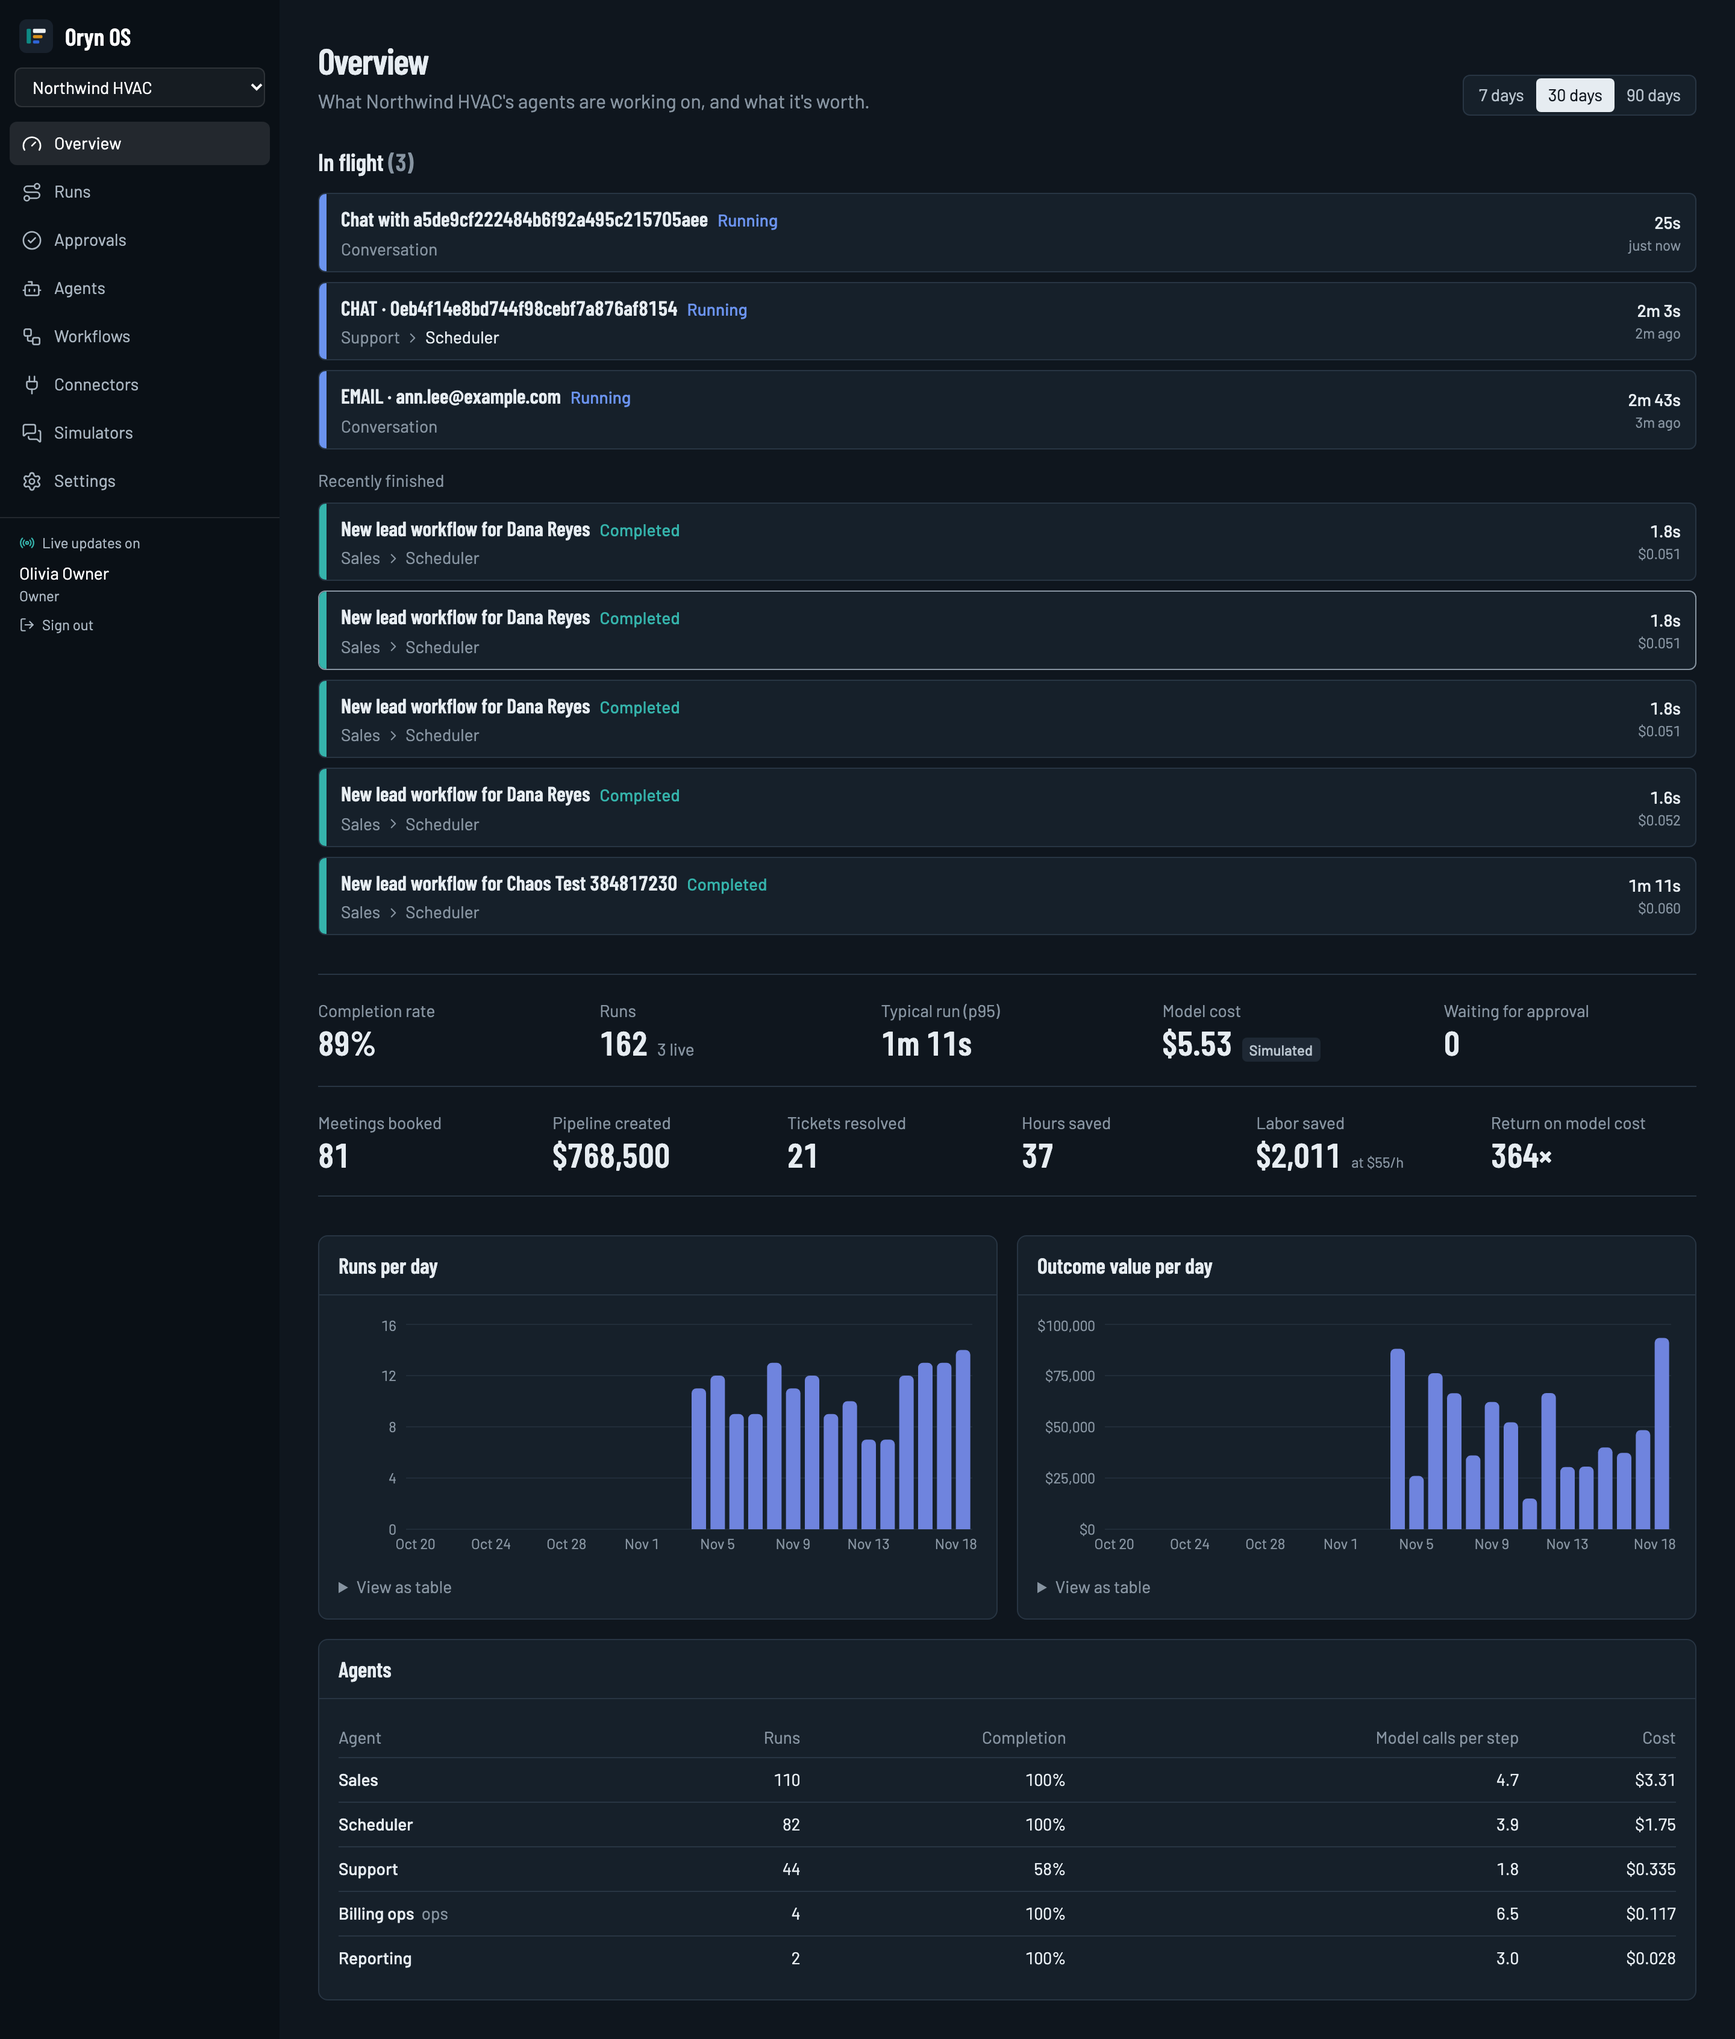
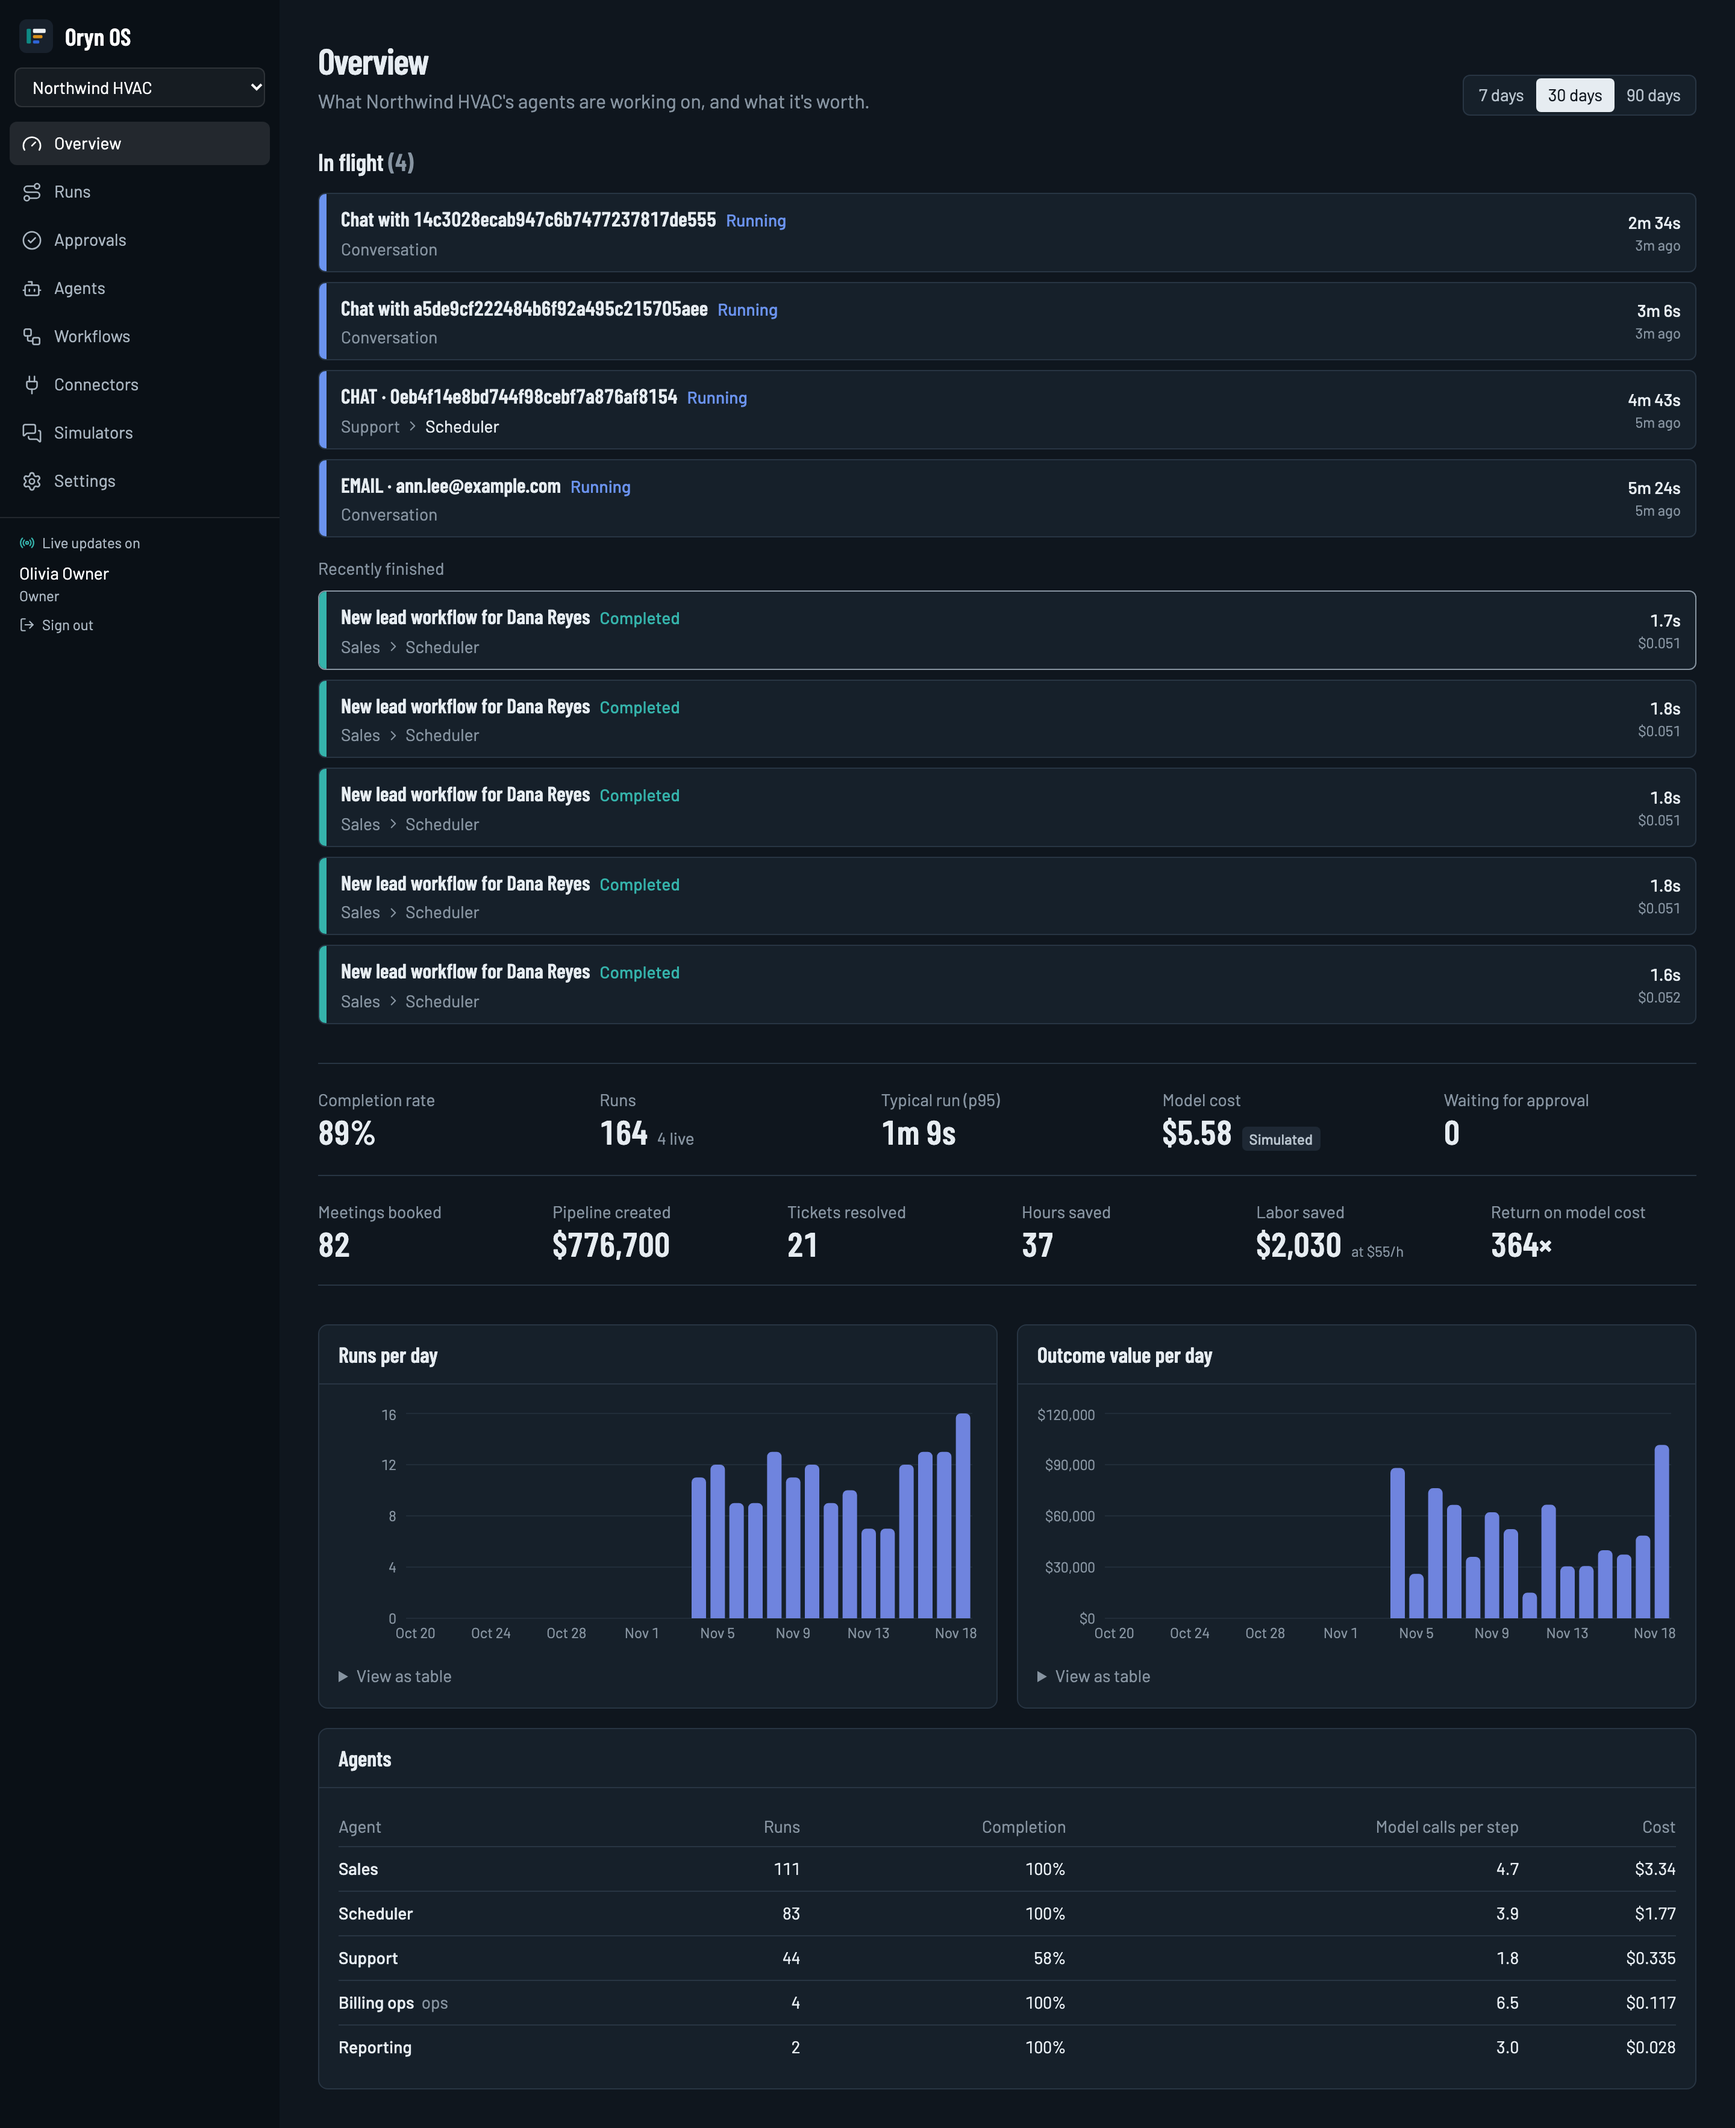
fix(conversations): readable titles for anonymous chat and API sessions

diff --git a/backend/oryn/services/conversations.py b/backend/oryn/services/conversations.py
@@ -50,7 +50,9 @@ async def get_or_create_conversation(
         if conv is None:
             conv_id, run_id = uuid.uuid4(), uuid.uuid4()
             wf_id = f"{tenant_id}:conv:{conv_id}"
-            who = (contact or {}).get("name") or (contact or {}).get("email") or external_id
+            c = contact or {}
+            anonymous = {"chat": "a website visitor", "api": "an API client"}.get(channel, external_id)
+            who = c.get("name") or c.get("email") or c.get("phone") or anonymous
             s.add(
                 Run(
                     id=run_id,

diff --git a/backend/tests/orchestration/test_conversation.py b/backend/tests/orchestration/test_conversation.py
@@ -27,6 +27,10 @@ async def test_chat_booking_conversation(temporal_env, tenant, acts) -> None:
         conv = (await s.execute(select(Conversation))).scalar_one()
     assert msgs == ["in", "out", "in", "out"]
     assert conv.channel == "chat" and conv.external_id == "sess-1"
+    async with owner_session() as s:
+        from oryn.models import Run
+
+        assert (await s.get(Run, conv.run_id)).title == "Chat with a website visitor"
 
 
 async def test_duplicate_message_id_returns_same_reply(temporal_env, tenant, acts) -> None:
